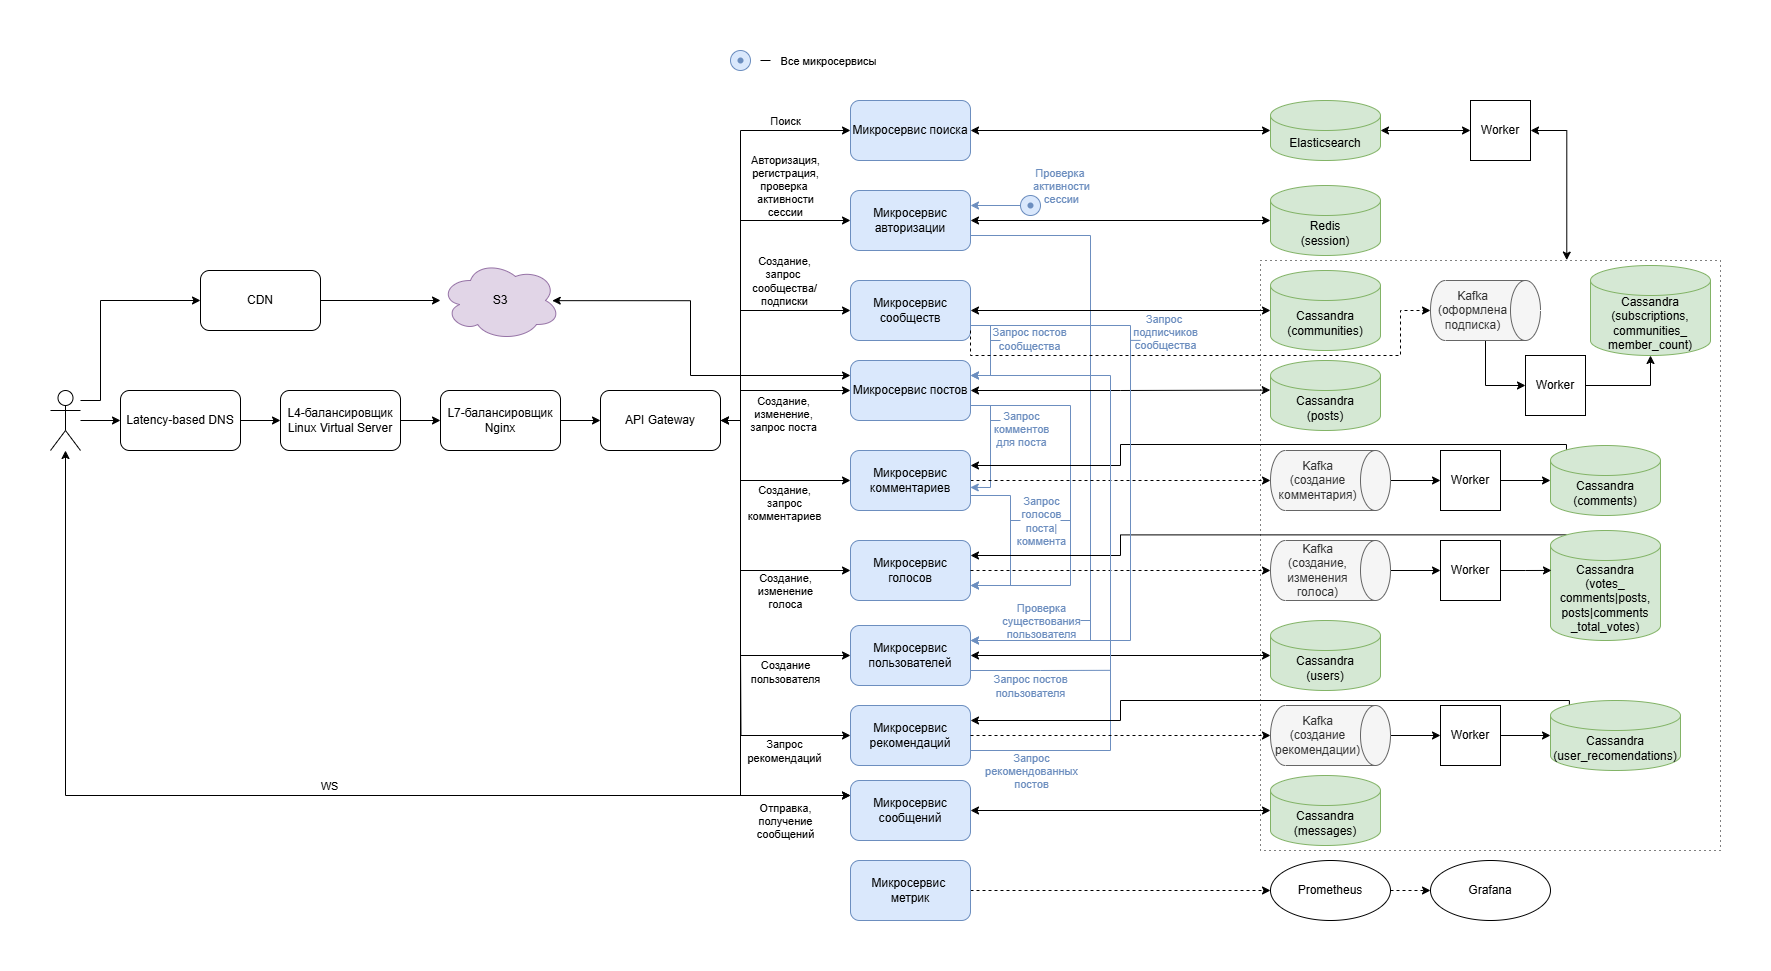
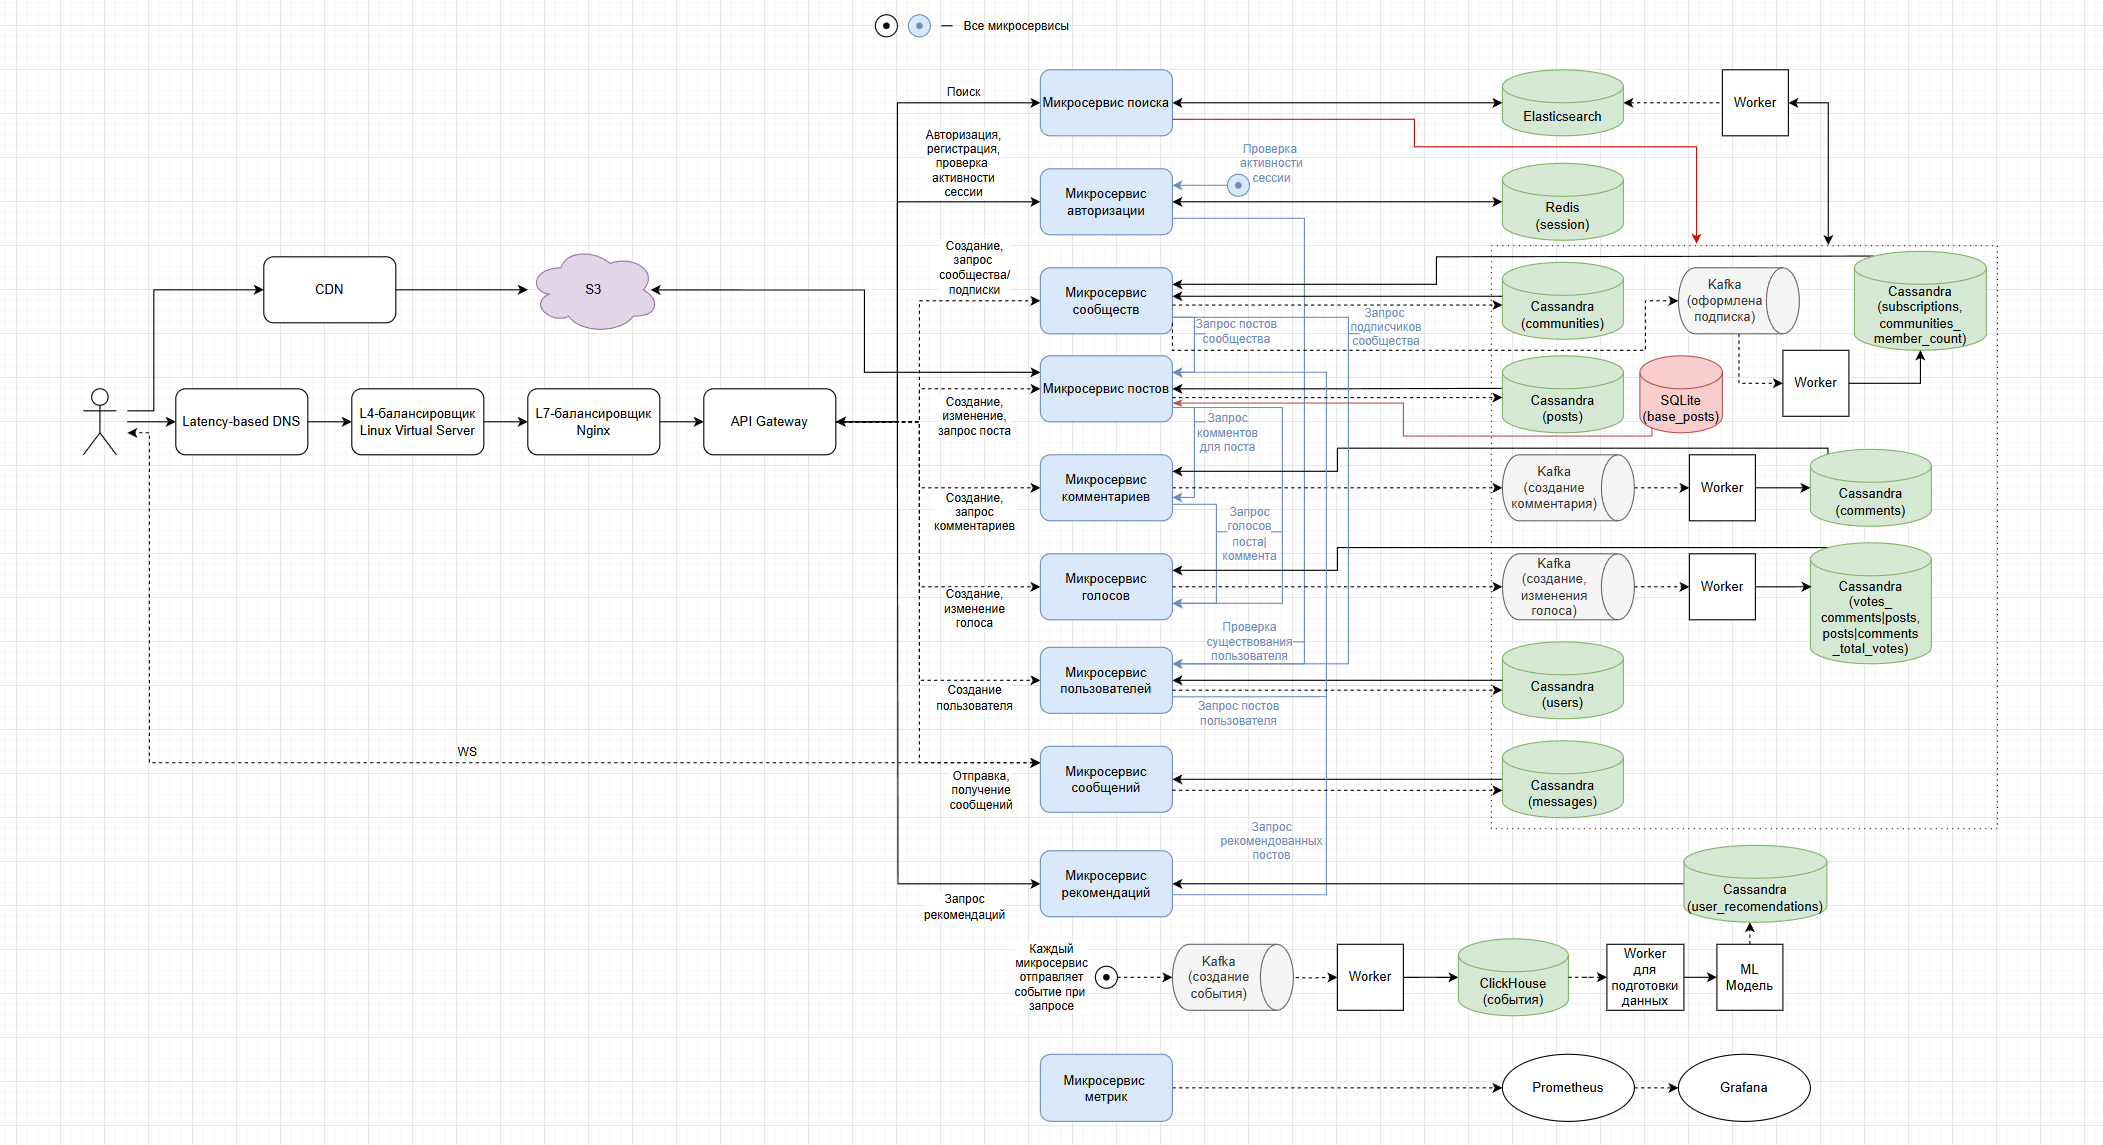
dz 9 10

diff --git a/README.md b/README.md
@@ -38,7 +38,12 @@
     - [Схема резервного копирования](#схема-резервного-копирования)
 - [8. Технологии](#8-технологии)
 - [9. Обеспечение надёжности](#9-обеспечение-надёжности)
+    - [Физический уровень](#физический-уровень)
+    - [Уровень сервисов](#уровень-сервисов)
+    - [Graceful Degradation](#graceful-degradation)
+    - [Асинхронные паттерны](#асинхронные-паттерны)
 - [10. Схема проекта](#10-схема-проекта)
+- [11. Список серверов](#11-список-серверов)
 - [Список использованных источников](#список-использованных-источников)
 
 
@@ -395,6 +400,7 @@
 ### Нагрузка по терминации SSL
 Среднее время выполнения SSL-рукопожатия может варьироваться от 2 мс при использовании сокращённого рукопожатия до 11 мс при полном рукопожатии [^13]. Для последующих расчётов будем учитывать, что SSL-рукопожатие занимает 3 мс, так как мы планируем использовать сокращённые рукопожатия в Nginx. Это означает, что сервер и клиент будут переиспользовать ранее установленную защищённую сессию с помощью механизма session tickets, что значительно сокращает время и нагрузку на процессор. Тогда, считая пиковый RPS равным 131355.32, получим, что на терминацию SSL будет затрачиваться 131355.32 * 3 = 394065,96 мс = 394.1 с процессорного времени в секунду.
 
+---
 
 # 5. Логическая схема БД
 ### Схема
@@ -419,6 +425,7 @@
 **Чтение:** Основная нагрузка на чтение приходится на просмотр постов (24602.4 RPS в пиковые моменты). Следовательно, кеширование популярных постов может существенно снизить нагрузку на базу данных.
 **Запись:** Основная нагрузка на запись связана с оценкой постов и комментариев (9936.35 RPS), отправкой сообщений (1709.04 RPS) и написанием комментариев (139.11 RPS)
 
+---
 
 # 6. Физическая схема БД
 ### Схема
@@ -473,6 +480,8 @@
 - Cassandra – snapshot-based бэкапы, incremental SSTable бэкапы, резервное копирование commitlog
 - Redis – кластерное резервирование
 
+---
+
 # 8. Технологии
 
 | Технология          | Область применения              | Мотивация                                                                                     |
@@ -498,11 +507,25 @@
 | Prometheus          | Сбор метрик                     | Многоразмерные данные, интеграция с Grafana, pull-модель                                      |
 | Grafana             | Визуализация метрик             | Гибкие дашборды, поддержка множества источников данных                                       |
 
+---
+
 # 9. Обеспечение надёжности
+
+### Физический уровень 
+| Сфера                | Меры обеспечения надежности |
+|----------------------|-----------------------------------------------|
+|**Уровень ДЦ**| Tier IV|
+| **Серверы**          | • Горячая замена компонентов (диски, БП, вентиляторы)<br>• RAID 10 для хранилищ<br>• Размещение в разных стойках/зонах ДЦ |
+| **Сеть**             | • Двойные маршрутизаторы (VRRP/HSRP)<br>• BGP multihoming (≥2 провайдера)<br>• Раздельные физические кабельные трассы |
+| **Электропитание**   | • Источники бесперебойного питания (5-15 мин автономии)<br>• Дизель-генераторы (24+ ч топлива)<br>• ATS для автоматического переключения |
+| **Охлаждение**       | • Системы CRAC <br>• Горячие/холодные коридоры<br>• Фальшполы с вентиляцией |
+| **Геораспределение** | • Active-Active между ≥2 ДЦ<br>• Минимальная задержка между узлами (<5 мс) |
+| **Безопасность**     | • Биометрический доступ + видеонаблюдение<br>• Газовое пожаротушение<br>• Датчики задымленности/протечек |
+| **Мониторинг**       | • DCIM-системы в реальном времени<br>• Автоскрипты переключения при отказах |
+
+### Уровень сервисов
 | Слой / компонент                       | Способ резервирования / отказоустойчивости                                       |  Примечание                                                |
 |---------------------------------------|----------------------------------------------------------------------------------|---------------------------------------------------------------------------|
-| **DNS** (Latency‑based)           | 2 провайдера NS (Route 53 + Cloudflare), health‑checks                | Потеря провайдера или DC не влияет на резолвинг                            |
-| **L4 Edge LB** (LVS DR + CARP)        | Active/active пара в каждом DC         | Мгновенный фейловер                                             |
 | **Kubernetes control‑plane**          | 3 master‑ноды в разных AZ, etcd RF = 3, регулярные snapshots → S3                 | Кворум 2/3; потеря узла/AZ без простоя                                     |
 | **Kubernetes worker‑nodes**           | Auto‑Scaling Groups по 3 AZ, HPA, pod‑anti‑affinity                               | Замещение узла + автоматическое масштабирование                            |
 | **Cassandra cluster**                 | Multi‑DC, Replication Factor = 3, LOCAL_QUORUM, incremental SSTable‑backups       | Потеря узла/целого DC — данные и сервис доступны                           |
@@ -512,11 +535,27 @@
 | **Message broker** (Kafka)            | RF = 3, ISR‑контроль, daily topic‑level backups → S3                              | Exactly‑once semantics + DR‑восстановление                                 |
 | **CI/CD** (Jenkins)                   | 2 controllers (active/passive), агенты в k8s, nightly backup $JENKINS_HOME         | Переключение ≤ 1 min, сохранность history                                  |
 
+### Graceful Degradation
+Для всех сервисов предусмотрено кэширование, в первую очередь при отказе сервиса берем данные оттуда, если и кэш недоступен, используем следующие методы:
+- **Поиск** - даем пользователю выбрать, что именно будем искать: сообщества, посты, пользователей и тд, далее идем напрямую в нужную БД и используем встроенный поиск.
+- **Сообщества** - в отображении постов используем заглушку (например r/community), при попытке перейти в сообщество сообщаем об ошибке и просим подождать.
+- **Посты** - выдаем везде одни и те же посты (с пометкой о том, что другие посты сейчас недоступны), хранящиеся в специальной БД base_posts, в которую иногда добавляем посты от имени reddit. Если и она недоступна, сообщаем пользователю об ошибке и просим подождать.
+- **Комментарии** - в отображении постов счетчик комментариев показывает 0, отключаем возможность писать комментарии.
+- **Голоса** - тоже в отображении постов счетчик голосов обнуляем, при этом если пользователь создает голос, пишем об этом в LocalStorage, откуда, при восстановлении сервиса, отпрпавляем запросы.
+- **Пользователи** - при отображении постов, комментариев и сообществ заменяем пользователей заглушкой, при попытке зайти  в профиль сообщаем об ошибке.
+- **Рекомендации** - отдаем посты сообществ и пользователей, на которые подписан пользователь.
 
+### Асинхронные паттерны
+**CQRS (Command Query Responsibility Segregation)** - архитектурный паттерн, который разделяет пайплайны для чтения и записи в БД. Дает возможность управлять нагрузкой на запись в БД, а также обеспечивает независимость запросов чтения от записывающих команд. Исопльзуется в таких микросервисах, как сообщества, комменатрии и голоса для выдерживания огромного RPS, поступающего на соответствующие БД каждого микросервиса.
 
+---
 
 # 10. Схема проекта
 ![](./assets/highload_dz10.png)
+
+---
+
+# 11. Список серверов
 
 # Список использованных источников
 [^1]: https://www.businessofapps.com/data/reddit-statistics/
